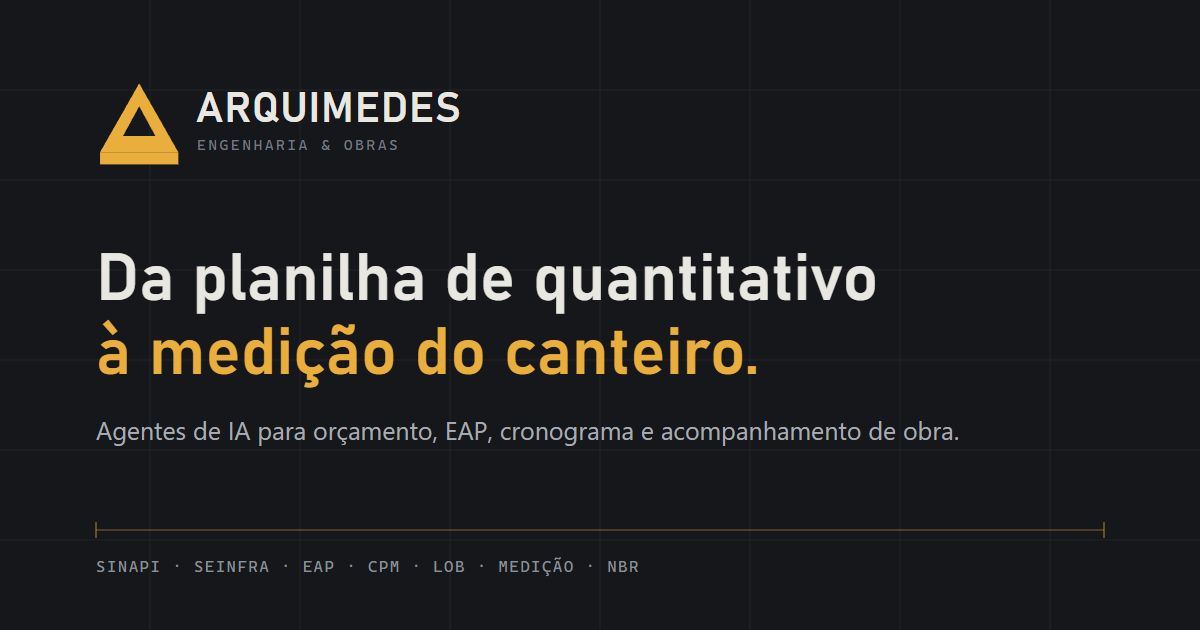
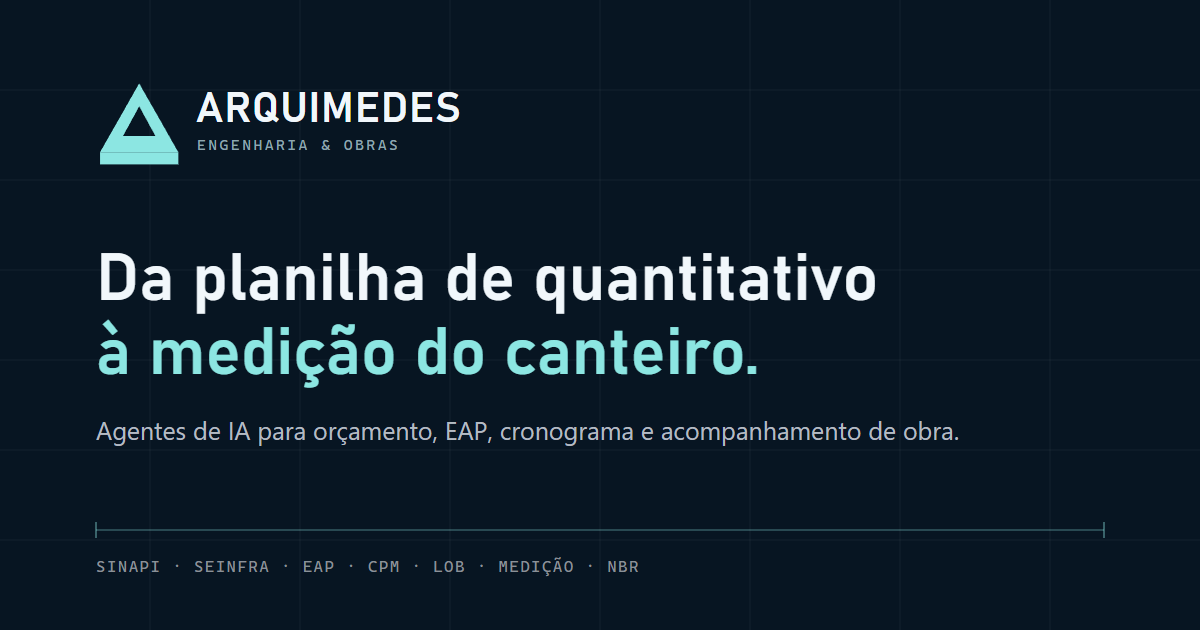
Alinhar paleta ao sistema do usuario: navy + menta
Substitui o ambar de instrumento topografico pela paleta real do sistema do
usuario, extraida por leitura de pixel da tela de referencia em vez de
estimada a olho:

  fundo   #071522  (navy)      acento  #8ce6e2  (menta)
  ink     #f1f7fb              ink-2   #b4bbc2   ink-3  #8fa6b0
  sheet   #0a1e2d              sheet-2 #0e253b

O texto do botao de acento e exatamente o fundo da pagina (#071522), o que
fecha o par com 12,75:1. Hairlines passaram de branco para a matiz do acento
(rgba(140,230,226,.14)), integrando as bordas a nova paleta.

Tema claro mantem a mesma matiz: acento menta escurecido (#0d6f78) para
contraste sobre papel, fundo #f2f6f8.

Contraste medido nos dois temas, resolvendo o fundo efetivo de cada elemento:
escuro todo AAA (14 dos 15 pares), claro todo AA ou melhor.

Uma correcao durante a troca: o --ink-3 do tema claro (#5f7b8a) dava 3,86:1
em textos de 11-12px sobre sheet-2, abaixo de AA. Escurecido para #446675,
que sobe para 5,31:1.

Tambem atualizados: favicon, apple-touch-icon e og-image (SVG + PNG
regerado), e o theme-color do index.html.

diff --git a/src/styles.css b/src/styles.css
@@ -2,26 +2,29 @@
    Arquimedes — sistema visual
    Linguagem: prancha técnica. Hairlines no lugar de sombra, canto vivo no
    lugar de raio arredondado, cota com seta como separador, carimbo como
-   bloco de informação. Acento único: amarelo de instrumento topográfico.
+   bloco de informação.
+
+   Paleta alinhada ao sistema do usuário: navy #071522 + menta #8ce6e2,
+   extraídos por leitura de pixel da tela de referência (não estimados).
    ========================================================================== */
 
 :root {
   /* mesa de desenho (escuro, padrão) */
-  --ground: #15171a;
-  --sheet: #1c1f23;
-  --sheet-2: #23272c;
-  --line: rgba(255, 255, 255, 0.11);
-  --line-2: rgba(255, 255, 255, 0.055);
-  --ink: #e9e7e2;
-  --ink-2: #a8adb4;
-  --ink-3: #737980;
+  --ground: #071522;
+  --sheet: #0a1e2d;
+  --sheet-2: #0e253b;
+  --line: rgba(140, 230, 226, 0.14);
+  --line-2: rgba(140, 230, 226, 0.07);
+  --ink: #f1f7fb;
+  --ink-2: #b4bbc2;
+  --ink-3: #8fa6b0;
 
-  --accent: #e9ae3c;
-  --accent-ink: #15171a;
-  --accent-soft: rgba(233, 174, 60, 0.13);
+  --accent: #8ce6e2;
+  --accent-ink: #071522;
+  --accent-soft: rgba(140, 230, 226, 0.13);
 
-  --ok: #7bb662;
-  --warn: #e07a5f;
+  --ok: #7bd88f;
+  --warn: #e8a06a;
 
   --display: "Bahnschrift", "DIN Alternate", "DIN Condensed", "Roboto Condensed",
     "Arial Narrow", "Helvetica Neue", sans-serif;
@@ -42,21 +45,23 @@
 
 /* papel vegetal */
 html[data-theme="light"] {
-  --ground: #eceae5;
-  --sheet: #f7f6f3;
-  --sheet-2: #f0eeea;
-  --line: rgba(24, 28, 32, 0.16);
-  --line-2: rgba(24, 28, 32, 0.07);
-  --ink: #1e2226;
-  --ink-2: #5a6169;
-  --ink-3: #868d95;
+  --ground: #f2f6f8;
+  --sheet: #ffffff;
+  --sheet-2: #e8eff3;
+  --line: rgba(7, 33, 52, 0.16);
+  --line-2: rgba(7, 33, 52, 0.07);
+  --ink: #071522;
+  --ink-2: #3d5a6b;
+  /* escurecido de #5f7b8a: em 11-12px sobre sheet-2 dava 3,86:1 (abaixo de AA) */
+  --ink-3: #446675;
 
-  --accent: #b8791a;
+  /* mesma matiz do acento escuro, escurecida para contraste sobre claro */
+  --accent: #0d6f78;
   --accent-ink: #ffffff;
-  --accent-soft: rgba(184, 121, 26, 0.12);
+  --accent-soft: rgba(13, 111, 120, 0.12);
 
-  --ok: #4f7d3a;
-  --warn: #b8563b;
+  --ok: #2f7d4f;
+  --warn: #a8592b;
 
   color-scheme: light;
 }

diff --git a/index.html b/index.html
@@ -10,8 +10,8 @@
       content="Orçamento com SINAPI e SEINFRA, EAP, cronograma com caminho crítico, medição e acompanhamento de obra. 12 agentes de IA especializados que rodam no seu computador, em português."
     />
     <meta name="author" content="Rafael Gomes" />
-    <meta name="theme-color" content="#15171a" media="(prefers-color-scheme: dark)" />
-    <meta name="theme-color" content="#eceae5" media="(prefers-color-scheme: light)" />
+    <meta name="theme-color" content="#071522" media="(prefers-color-scheme: dark)" />
+    <meta name="theme-color" content="#f2f6f8" media="(prefers-color-scheme: light)" />
     <link rel="canonical" href="https://ragomes102030-cpu.github.io/arquimedes/" />
 
     <meta property="og:type" content="website" />
